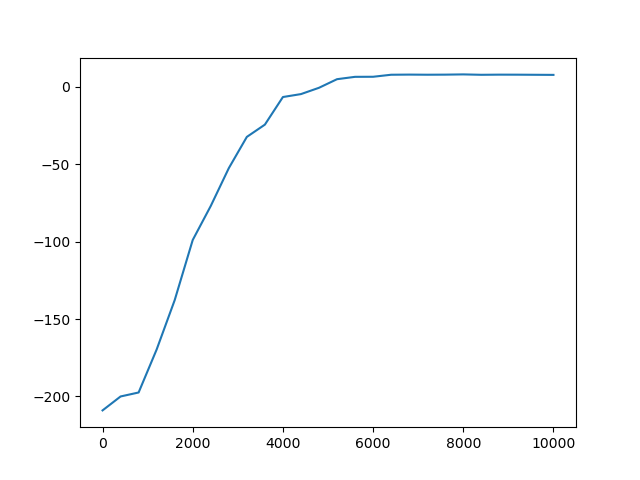
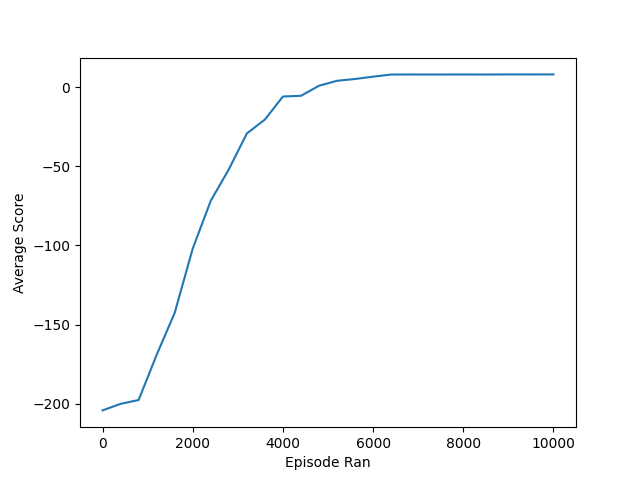
Added labels to the graphs

diff --git a/Taxi/Taxi_Tester.py b/Taxi/Taxi_Tester.py
@@ -51,7 +51,10 @@ for x in generations:
     print(f'Generation: {x}\t Average Score: {generation_data[x]}\n')
 
 
-
+xlabel = 'Episode Ran'
+ylabel = 'Average Score'
+plt.xlabel(xlabel)
+plt.ylabel(ylabel)
 plt.plot(*zip(*sorted(generation_data.items())))
 plt.savefig('Taxi/Taxi_Runs_Data.png')
 plt.show()

diff --git a/Taxi/Taxi_Main.py b/Taxi/Taxi_Main.py
@@ -24,6 +24,9 @@ agent = tf.Taxi(
 )
 
 env = gym.wrappers.RecordEpisodeStatistics(env, deque_size=n_episodes)
+
+### Iterate over the episodes and trains the agent using functions from Taxi_Functions.py
+
 for episode in tqdm(range(n_episodes + 1)):
     obs, _ = env.reset()
     done = False
